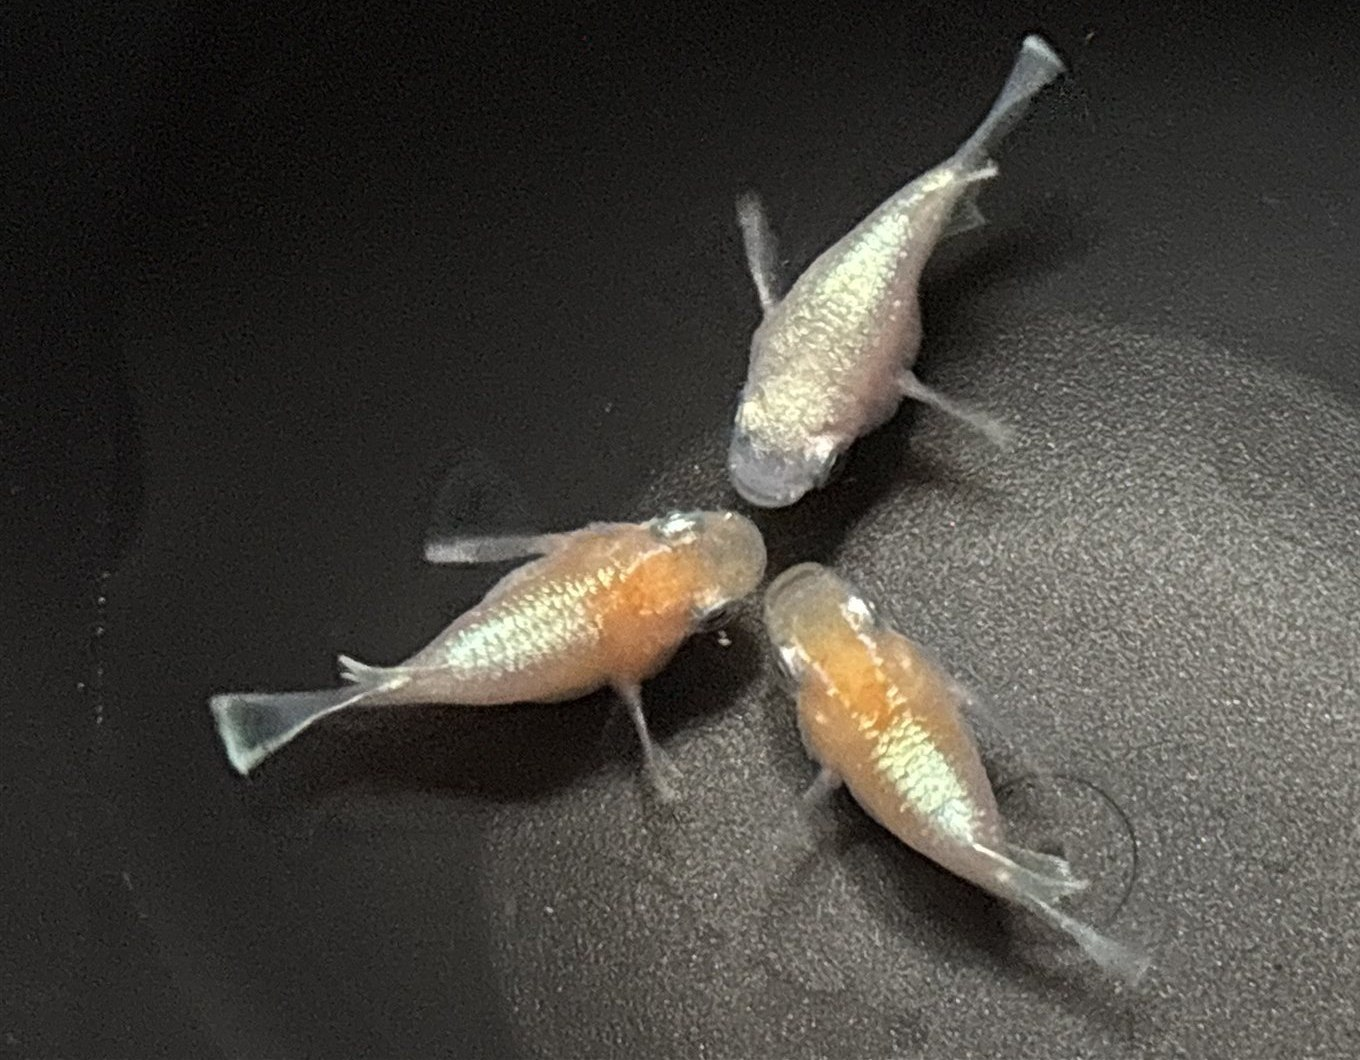
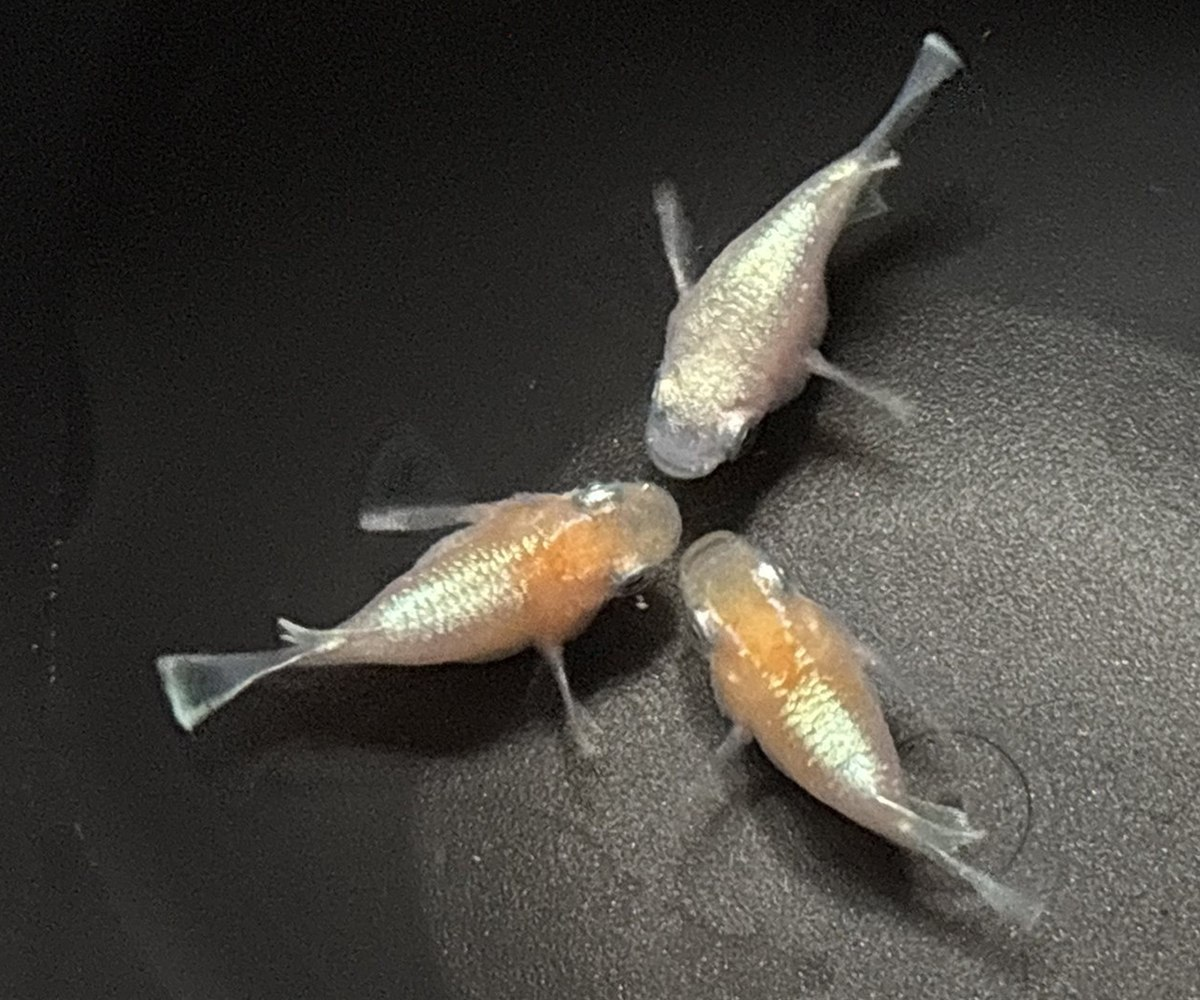
トップページの写真をスライドに変更、矢印と数字を追加、スマホのキャッチコピーの字体を変更、要件定義書を更新

diff --git a/css/style.css b/css/style.css
@@ -132,7 +132,7 @@ a {
 .hero__copy {
   margin: 16px 0 0;
   color: #FFFFFF;
-  font-family: "Yuji Syuku", "Shippori Mincho", serif;
+  font-family: "Klee One", "Yuji Syuku", serif; /* スマホの横書きは Klee One */
   font-size: 1.1rem;
   font-weight: 400;
   letter-spacing: 0.2em;
@@ -154,6 +154,7 @@ a {
     margin: 0;
     transform: translateY(-50%);
     writing-mode: vertical-rl;
+    font-family: "Yuji Syuku", "Shippori Mincho", serif; /* パソコンの縦書きは Yuji Syuku */
     font-size: 1.5rem;
     line-height: 1.7;
     letter-spacing: 0.3em;
@@ -166,18 +167,29 @@ a {
   }
 }
 
-/* 写真は切り抜かず全体を表示。元の縦横比のまま、高さは最大500px。
-   スマホでは画面幅に合わせて縮む。 */
-.hero img {
-  display: block;
-  width: auto;
-  height: auto;
-  max-width: 100%;
-  max-height: 500px;
+/* 写真スライド。2枚とも同じ縦横比(6:5)で切り抜いてあり、同じ大きさの枠に重ねて、
+   不透明度を変えて切り替える（前の写真が消えてから、次の写真が出てくる）。高さは最大500px（幅600px）、
+   スマホでは画面幅に合わせて縮む。切り替えは js/slider.js が is-active を付け替える。 */
+.hero__slides {
+  position: relative;
+  width: min(100%, 600px);
+  aspect-ratio: 6 / 5;
   margin: 0 auto;
-  /* ふちを黒い帯に向かってぼかす。メダカは左右とも端から15%以上内側にあるので、
-     左右のぼかしは12%まで。上は尾びれが端から3%ほどの所にあるので2.5%まで、
-     下は写真の下側に余白をとってあるので6%まで。いずれもメダカにかからないようにしている */
+  touch-action: pan-y; /* 縦のスクロールはそのまま。横にすべらせる動きは slider.js が受け取る */
+}
+
+.hero__slide {
+  position: absolute;
+  inset: 0;
+  display: block;
+  width: 100%;
+  height: 100%;
+  object-fit: cover; /* 動画など、縦横比の違うスライドを足しても枠いっぱいに収める */
+  opacity: 0;
+  transition: opacity 0.5s ease-in-out; /* 消えるとき：0.5秒 */
+  /* ふちを黒い帯に向かってぼかす（2枚とも同じ）。メダカは左右とも端から12%以上内側にあるので、
+     左右のぼかしは12%まで。上下は余白を7%以上とってあるので、上2.5%・下6%まで。
+     いずれもメダカにかからないようにしている */
   -webkit-mask-image:
     linear-gradient(to right, transparent 0, #000 12%, #000 88%, transparent 100%),
     linear-gradient(to bottom, transparent 0, #000 2.5%, #000 94%, transparent 100%);
@@ -188,13 +200,77 @@ a {
   mask-composite: intersect;
 }
 
+/* 出てくるとき：前の写真が消え終わる0.5秒後から、0.5秒かけて出てくる */
+.hero__slide.is-active {
+  opacity: 1;
+  transition-delay: 0.5s;
+}
+
+/* 矢印を押したときは、動きなしですぐに切り替える（js/slider.js が一瞬だけ付ける） */
+.hero__slides.is-instant .hero__slide,
+.hero__slides.is-instant .hero__slide.is-active {
+  transition: none;
+}
+
+@media (prefers-reduced-motion: reduce) {
+  .hero__slide,
+  .hero__slide.is-active {
+    transition: none;
+  }
+}
+
+/* 写真の下の「‹　1 / 2　›」（左右の矢印で前後の写真へ、真ん中は今何枚目か）。
+   js/slider.js が作る。白い細い文字。矢印のボタンは、スマホでも押しやすい48px四方 */
+.hero__pager {
+  display: flex;
+  justify-content: center;
+  align-items: center;
+  gap: 0;
+  margin-top: 12px;
+  color: #FFFFFF;
+  font-family: "Shippori Mincho", serif;
+  font-weight: 400;
+  line-height: 1;
+}
+
+.hero__arrow {
+  width: 44px;
+  height: 48px;
+  margin: 0 -6px; /* 数字との間をつめる（押せる範囲は44×48pxのまま） */
+  padding: 0 0 8px; /* 矢印の記号は文字の中で下に寄るので、数字と高さがそろうよう少し上げる */
+  border: 0;
+  background: none;
+  color: inherit;
+  font: inherit;
+  font-size: 1.6rem;
+  line-height: 1;
+  cursor: pointer;
+}
+
+.hero__arrow:hover {
+  opacity: 0.7;
+}
+
+.hero__arrow:focus-visible {
+  outline: 2px solid #FFFFFF;
+  outline-offset: -2px;
+}
+
+.hero__count {
+  font-size: 1.1rem;
+  line-height: 1;
+  letter-spacing: 0.1em;
+  text-align: center;
+  font-variant-numeric: tabular-nums;
+}
+
 .intro {
   text-align: center;
 }
 
 .intro p {
   margin: 0 auto 28px;
-  max-width: 34em;
+  max-width: 37em;
 }
 
 .intro__buttons {

diff --git a/js/slider.js b/js/slider.js
@@ -1,0 +1,88 @@
+// トップページの写真スライド
+//  ・自動では切り替わらない。見に来た人が操作したときだけ切り替わる
+//    （指ですべらせたときは、前の写真が消えてから次の写真がふわっと出てくる。動きは style.css）
+//  ・写真の下に「‹　1 / 2　›」を表示する。矢印を押すと、すぐに前後の写真に切り替わり、
+//    数字は「今何枚目 / 全部で何枚」を表す
+//  ・スマホでは、写真を指で左右にすべらせても切り替わる
+//
+// スライドを増やすときは、index.html の .hero__slides の中に
+// class="hero__slide" の要素（img など）を足すだけでよい。枚数の表示は自動で増える。
+(function () {
+  var SWIPE_DISTANCE = 40; // これ以上横に動かしたら「すべらせた」と判定（px）
+
+  var container = document.querySelector('.hero__slides');
+  if (!container) return;
+  var slides = container.querySelectorAll('.hero__slide');
+  if (slides.length < 2) return;
+
+  var current = 0;
+
+  // 「‹　1 / 2　›」を、写真の下に作る
+  function makeArrow(label, mark, step) {
+    var button = document.createElement('button');
+    button.type = 'button';
+    button.className = 'hero__arrow';
+    button.setAttribute('aria-label', label);
+    button.textContent = mark;
+    button.addEventListener('click', function () {
+      showInstantly(current + step);
+    });
+    return button;
+  }
+
+  var pager = document.createElement('div');
+  pager.className = 'hero__pager';
+  var count = document.createElement('span');
+  count.className = 'hero__count';
+  count.setAttribute('aria-live', 'polite');
+  pager.appendChild(makeArrow('前の写真', '‹', -1));
+  pager.appendChild(count);
+  pager.appendChild(makeArrow('次の写真', '›', 1));
+  container.insertAdjacentElement('afterend', pager);
+
+  function show(index) {
+    current = (index + slides.length) % slides.length; // 最後の次は1枚目、1枚目の前は最後
+    slides.forEach(function (slide, i) {
+      var active = i === current;
+      slide.classList.toggle('is-active', active);
+      slide.setAttribute('aria-hidden', active ? 'false' : 'true');
+    });
+    count.textContent = (current + 1) + ' / ' + slides.length;
+  }
+
+  // 矢印を押したときは、消える・出てくるの動きをつけず、すぐに切り替える
+  function showInstantly(index) {
+    container.classList.add('is-instant');
+    show(index);
+    void container.offsetWidth; // 動きなしの状態を、ここで確定させる
+    container.classList.remove('is-instant');
+  }
+
+  // 指で左右にすべらせて切り替える（マウスは対象外）
+  var startX = 0;
+  var startY = 0;
+  var tracking = false;
+
+  container.addEventListener('pointerdown', function (e) {
+    if (e.pointerType === 'mouse') return;
+    tracking = true;
+    startX = e.clientX;
+    startY = e.clientY;
+  });
+
+  container.addEventListener('pointerup', function (e) {
+    if (!tracking) return;
+    tracking = false;
+    var dx = e.clientX - startX;
+    var dy = e.clientY - startY;
+    if (Math.abs(dx) >= SWIPE_DISTANCE && Math.abs(dx) > Math.abs(dy)) {
+      show(dx < 0 ? current + 1 : current - 1); // 左へ→次、右へ→前
+    }
+  });
+
+  container.addEventListener('pointercancel', function () {
+    tracking = false;
+  });
+
+  show(0);
+})();

diff --git a/index.html b/index.html
@@ -7,7 +7,7 @@
   <meta name="description" content="ダルマメダカ専門のサイト「ダルマちゃんめだか」。飼育しているダルマメダカをご紹介しています。">
   <link rel="preconnect" href="https://fonts.googleapis.com">
   <link rel="preconnect" href="https://fonts.gstatic.com" crossorigin>
-  <link href="https://fonts.googleapis.com/css2?family=Noto+Sans+JP:wght@400;700&family=Shippori+Mincho:wght@700&family=Yuji+Syuku&display=swap" rel="stylesheet">
+  <link href="https://fonts.googleapis.com/css2?family=Noto+Sans+JP:wght@400;700&family=Shippori+Mincho:wght@400;700&family=Yuji+Syuku&family=Klee+One&display=swap" rel="stylesheet">
   <link rel="stylesheet" href="css/style.css">
 </head>
 <body>
@@ -27,7 +27,10 @@
 
   <main>
     <figure class="hero">
-      <img src="img/web/amaterasu3-hero.jpg" alt="黒い容器を上から撮影した、アマテラスダルマのメダカ3匹">
+      <div class="hero__slides">
+        <img class="hero__slide is-active" src="img/web/amaterasu3-hero.jpg" alt="黒い容器を上から撮影した、アマテラスダルマのメダカ3匹">
+        <img class="hero__slide" src="img/web/taakoizuguriin1-hero.jpg" alt="黒い容器を上から撮影した、ターコイズグリーンのメダカ2匹">
+      </div>
       <p class="hero__copy">水の中の、<br>ちいさな宝石。</p>
     </figure>
 
@@ -47,5 +50,7 @@
   <footer class="site-footer">
     <p>&copy; ダルマちゃんめだか</p>
   </footer>
+
+  <script src="js/slider.js" defer></script>
 </body>
 </html>

diff --git a/REQUIREMENTS.md b/REQUIREMENTS.md
@@ -23,13 +23,20 @@
 ## **ホームページ**
 
 このページは、サイトに最初にアクセスした人が見るページ。  
-・お気に入りのダルマメダカの写真を大きく1枚掲載  
-　- 使用写真：アマテラスダルマ（元写真：img/amaterasu3.JPG、表示用：img/web/amaterasu3-hero.jpg）  
-　- 写真は、メダカの頭や尾びれが切れない範囲で上下を切り取った（トリミングした）うえで、できるだけ横長で表示する。メダカは写真の中央に置く。  
-　- 写真の高さは最大500px。元の縦横比は保ち、スマホでは画面の幅に合わせて縮める。  
+・お気に入りのダルマメダカの写真を大きく表示（2枚が切り替わるスライド）  
+　- 1枚目：アマテラスダルマ（元写真：img/amaterasu3.JPG、表示用：img/web/amaterasu3-hero.jpg）  
+　- 2枚目：ターコイズグリーン（元写真：img/taakoizuguriin1.JPG、表示用：img/web/taakoizuguriin1-hero.jpg）  
+　- 自動では切り替えない。見に来た人が操作したとき（矢印を押す、スマホで写真を指で左右にすべらせる）だけ切り替わる。  
+　- 矢印を押したときは、待たせないよう、動きなしですぐに次の（前の）写真に切り替える。  
+　- スマホで写真を指で左右にすべらせたときは、前の写真が完全に消えて黒くなってから（消えるのに0.5秒）、次の写真がふわっと出てくる（出てくるのに0.5秒）。動きを減らす設定の端末では、すぐに切り替える。  
+　- 切り替えの処理は js/slider.js、動きは css/style.css で決める。  
+　- 写真の下（黒い帯の中）に「‹　1 / 2　›」の形で表示する。左右の矢印を押すと前後の写真に切り替わり（最後の次は1枚目、1枚目の前は最後）、数字は「今何枚目 / 全部で何枚」を表す。矢印と数字は白い細い文字で、字体はヘッダーのサイト名と同じ明朝体（Shippori Mincho）。矢印と数字の高さは横一列にそろえ、間は詰める。矢印はスマホでも押しやすい（押せる範囲は44×48px）大きさにする。スマホでは、写真を指で左右にすべらせても切り替わる。  
+　- あとで3枚目に動画を追加する予定。スライドを足すときは、index.html の .hero__slides の中に class="hero__slide" の要素を足す（枚数の表示は自動で増える）。動画を足すときは、再生が終わるまで切り替えない等の動作を、別途 js/slider.js に足す。  
+　- 2枚とも同じ大きさ（縦横比6:5）で表示する。写真は、メダカの頭や尾びれが切れない範囲で切り取った（トリミングした）うえで、できるだけ横長にし、メダカは写真の中央に置く。  
+　- 写真の高さは最大500px（幅600px）。スマホでは画面の幅に合わせて縮める。  
 ・写真の後ろに、画面の横幅いっぱいの黒い帯（\#1a1a18）を敷き、写真は帯の中央に置く。  
-　- 写真の左右と上下のふちは、帯の黒になじむようにぼかす。メダカにはぼかしがかからないようにする。写真の角は丸くしない。  
-・黒い帯の中に、キャッチコピー「水の中の、ちいさな宝石。」を入れる。白い文字、字体は Yuji Syuku（Google Fonts）。  
+　- 写真の左右と上下のふちは、帯の黒になじむようにぼかす（2枚とも同じ）。メダカにはぼかしがかからないようにする。写真の角は丸くしない。  
+・黒い帯の中に、キャッチコピー「水の中の、ちいさな宝石。」を入れる。白い文字。字体は、パソコンの縦書きは Yuji Syuku、スマホの横書きは Klee One（どちらも Google Fonts）。写真が切り替わっても、キャッチコピーは切り替えずにそのまま表示する。  
 　- パソコンなど画面幅960px以上：写真と重ならないよう、帯の左側の余白に縦書きで置く（「水の中の、」「ちいさな宝石。」の2行、帯の上下中央）。  
 　- スマホなど画面幅960px未満：写真のすぐ下（黒い帯の中）に、横書きで1行で表示する。  
 ・サイト紹介文（2〜3行程度）  
@@ -73,7 +80,8 @@
 ・サイト名：Shippori Mincho  
 ・メニュー、本文：Noto Sans JP  
 ・メニューの文字は太字にする。  
-・ホームの縦書きキャッチコピー：Yuji Syuku（書道で書いたようなやわらかい字体）
+・ホームのスライドの「‹　1 / 2　›」：Shippori Mincho（サイト名と同じ明朝体。細く見えるよう、サイト名より細い weight 400 を使う）  
+・ホームのキャッチコピー：パソコンの縦書きは Yuji Syuku（書道で書いたようなやわらかい字体）、スマホの横書きは Klee One（Google Fonts）
 
 # ボタン
 
